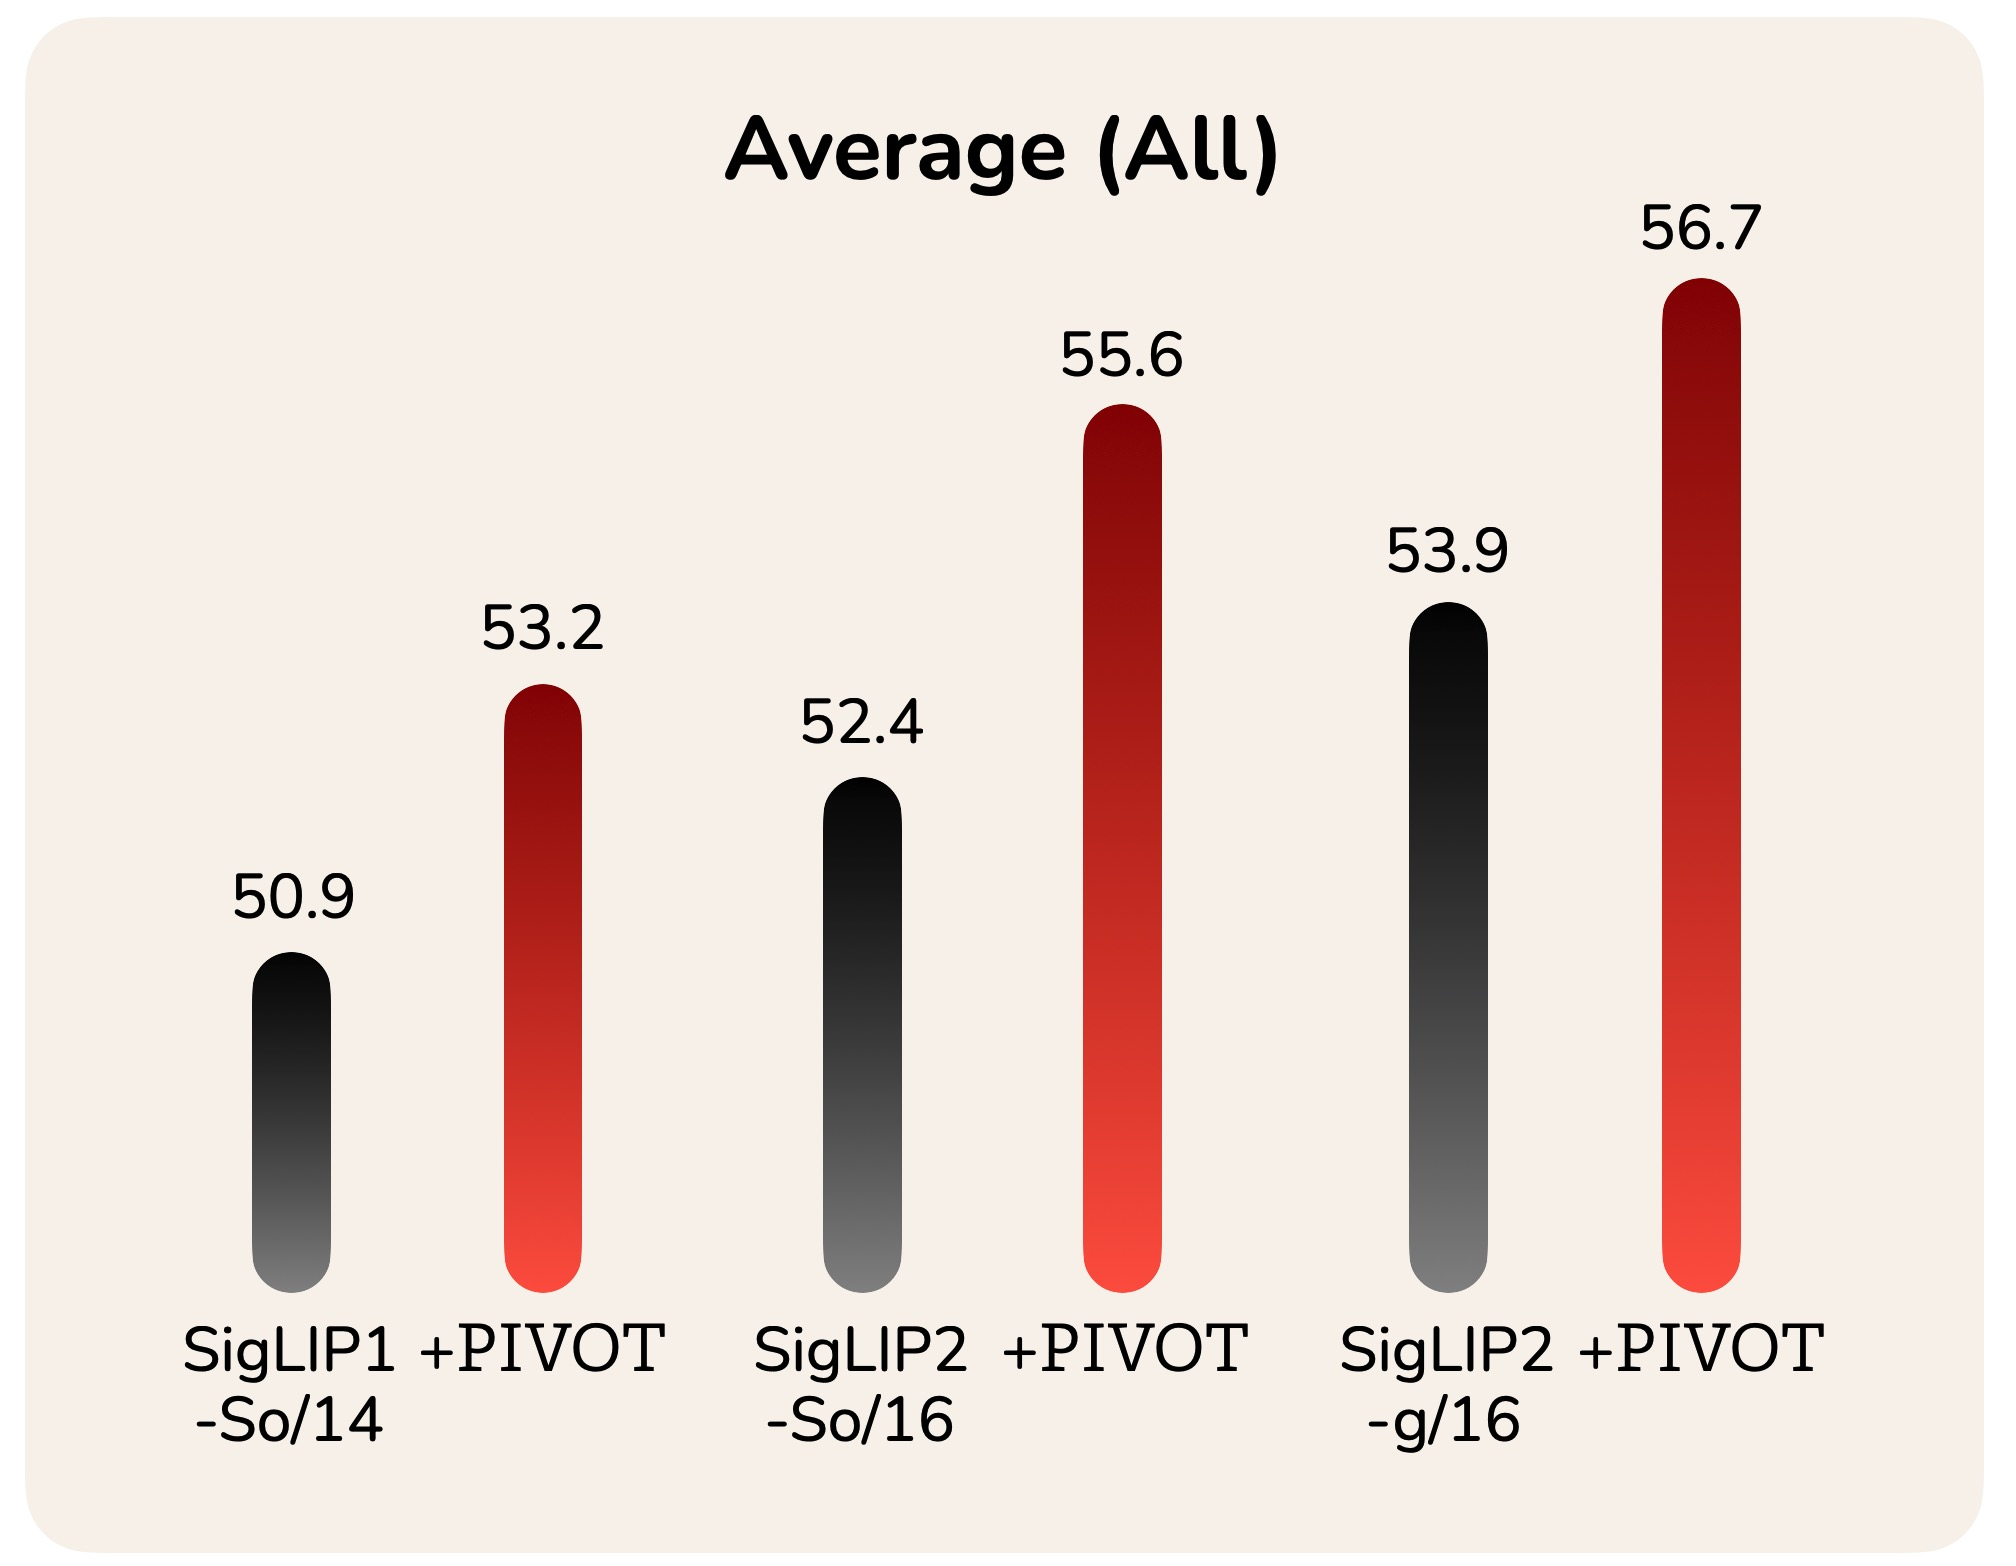
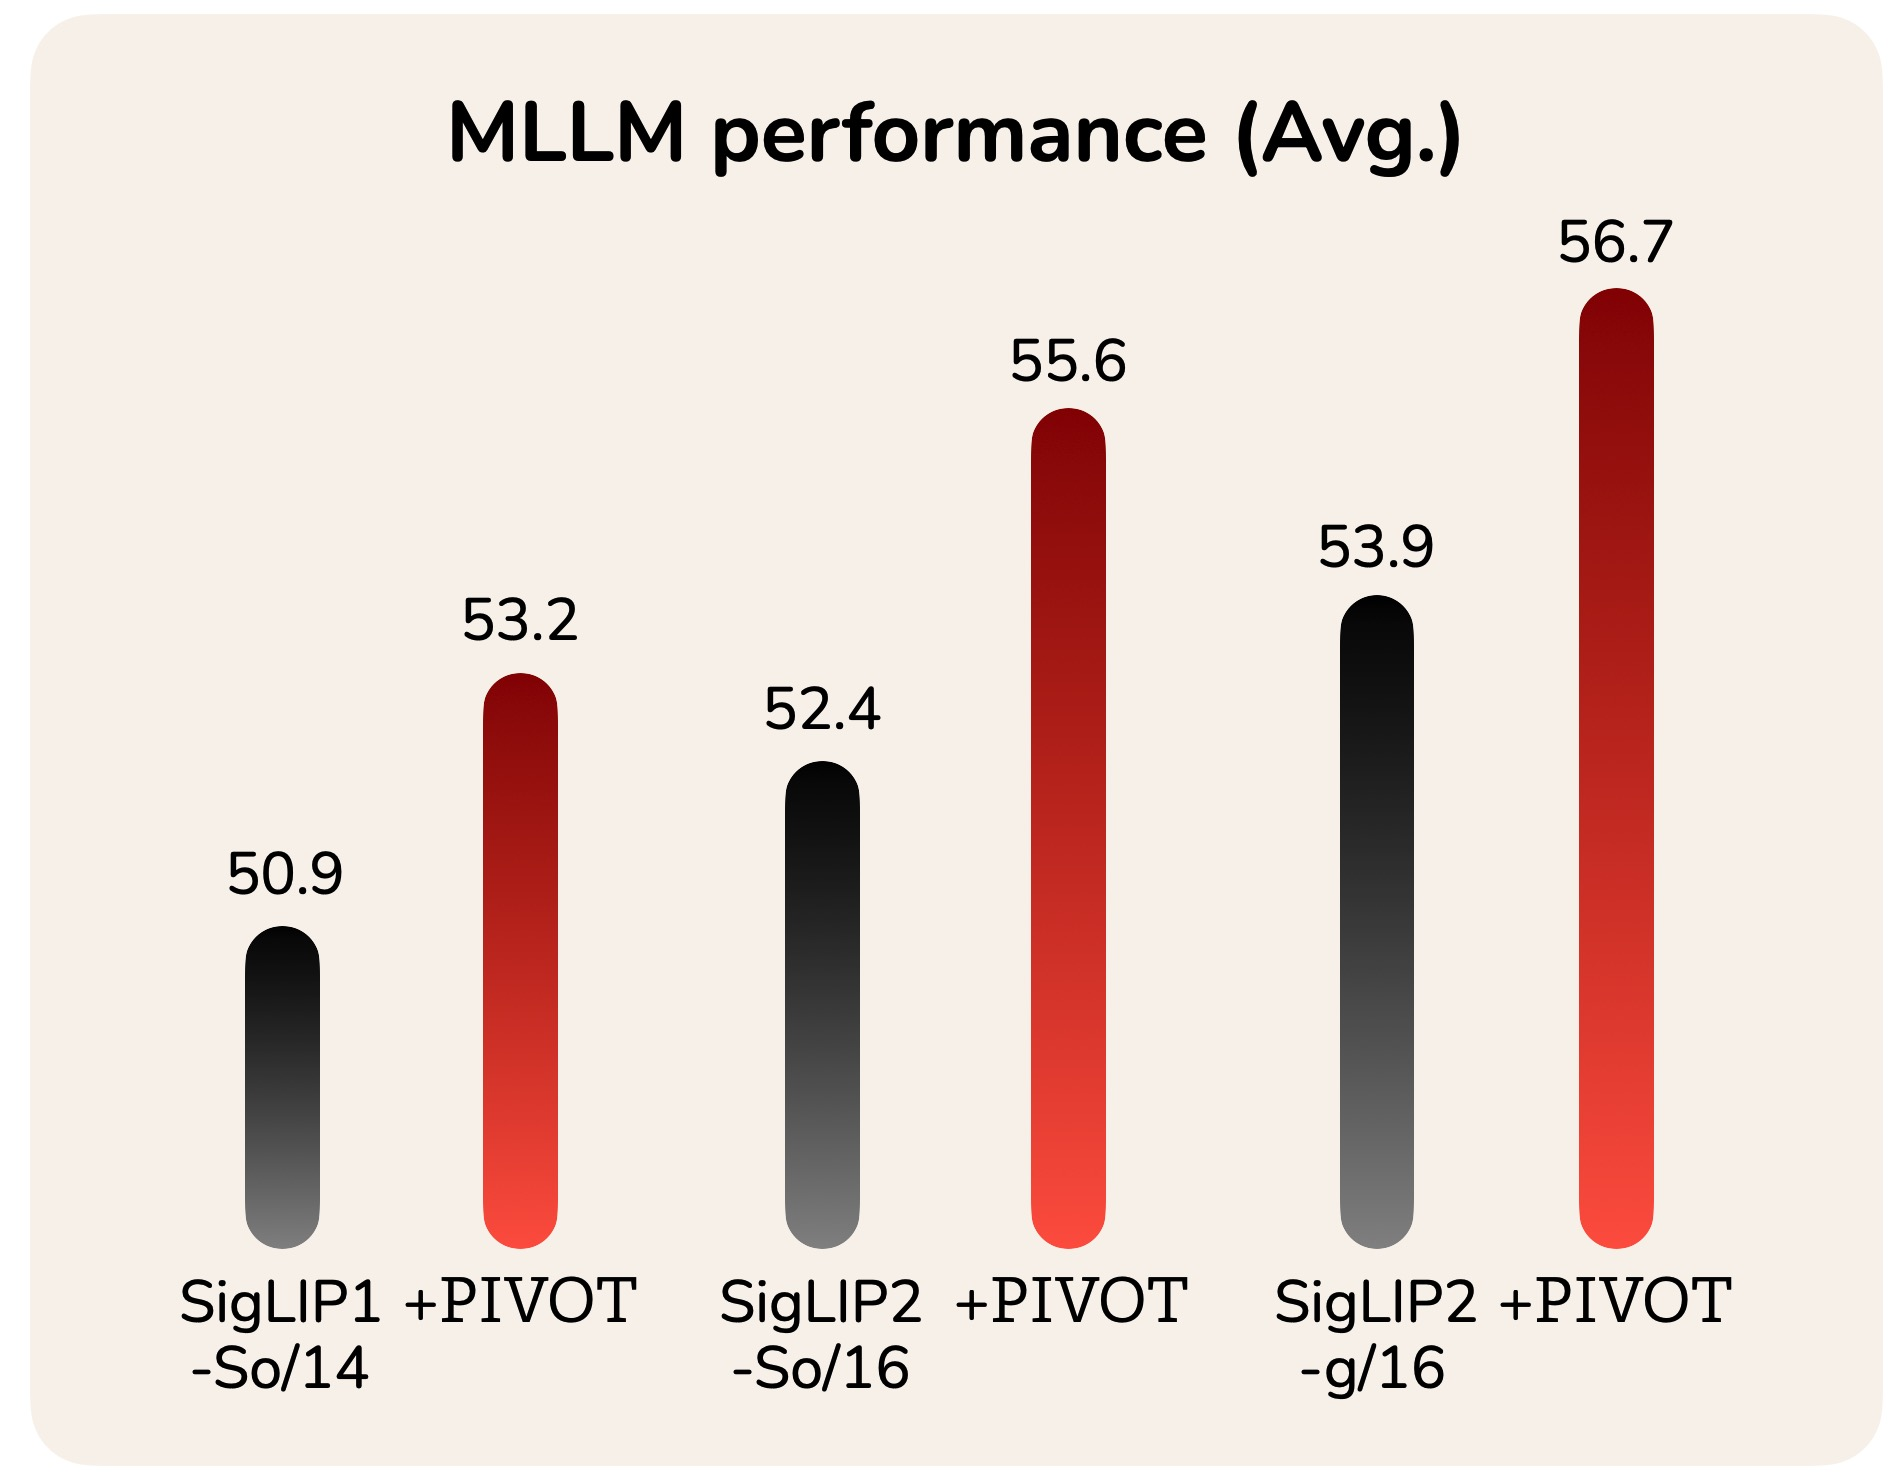
update teaser image

diff --git a/index.html b/index.html
@@ -90,8 +90,8 @@
                     <div class="col-lg-12">
                         
                         <p class="mb-4 lead" style="font-size: 1.2rem; font-weight: 500; text-align: left;"><strong>Yes—and the training recipe matters!</strong> Our research shows that training with RL (e.g., DPO) produces stronger, more precisely localized visual representations than SFT. This translates to superior performance not only on MLLM benchmarks (especially strongly vision-related VQA tasks) but also on classic vision tasks like ImageNet classification and segmentation. If your goal is to improve the vision encoder itself for MLLM development, RL is the more effective path.</p>
-                        <div class="figure-container mb-0 mx-auto" style="box-shadow: 0 8px 20px rgba(0, 0, 0, 0.1); max-width: 800px;">
-                            <img src="assets/figures/tldr.png" alt="rl-makes-mllms-see-better" class="img-fluid rounded">
+                        <div class="figure-container mb-0 mx-auto" style="box-shadow: 0 8px 20px rgba(0, 0, 0, 0.1); max-width: 900px;">
+                            <img src="assets/figures/tldr.jpeg" alt="rl-makes-mllms-see-better" class="img-fluid rounded">
                         </div>
                     </div>
                 </div>
